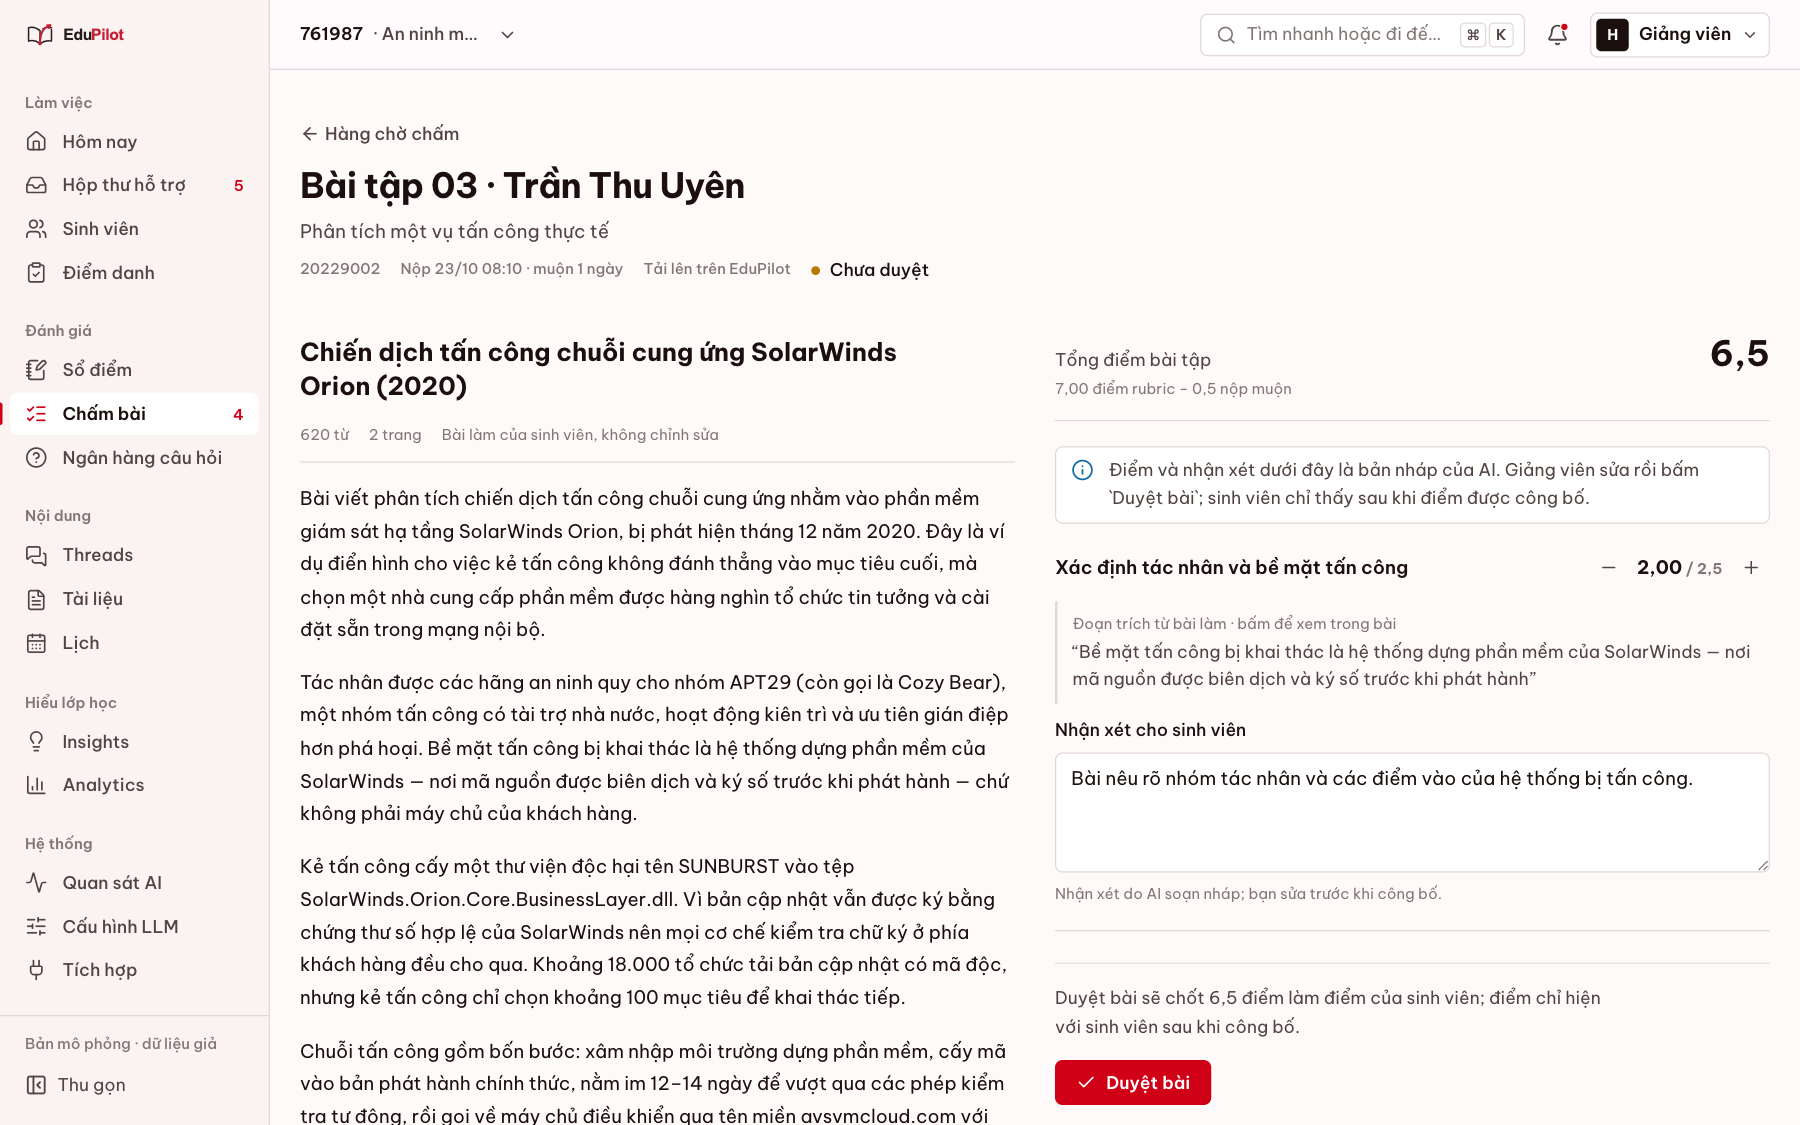
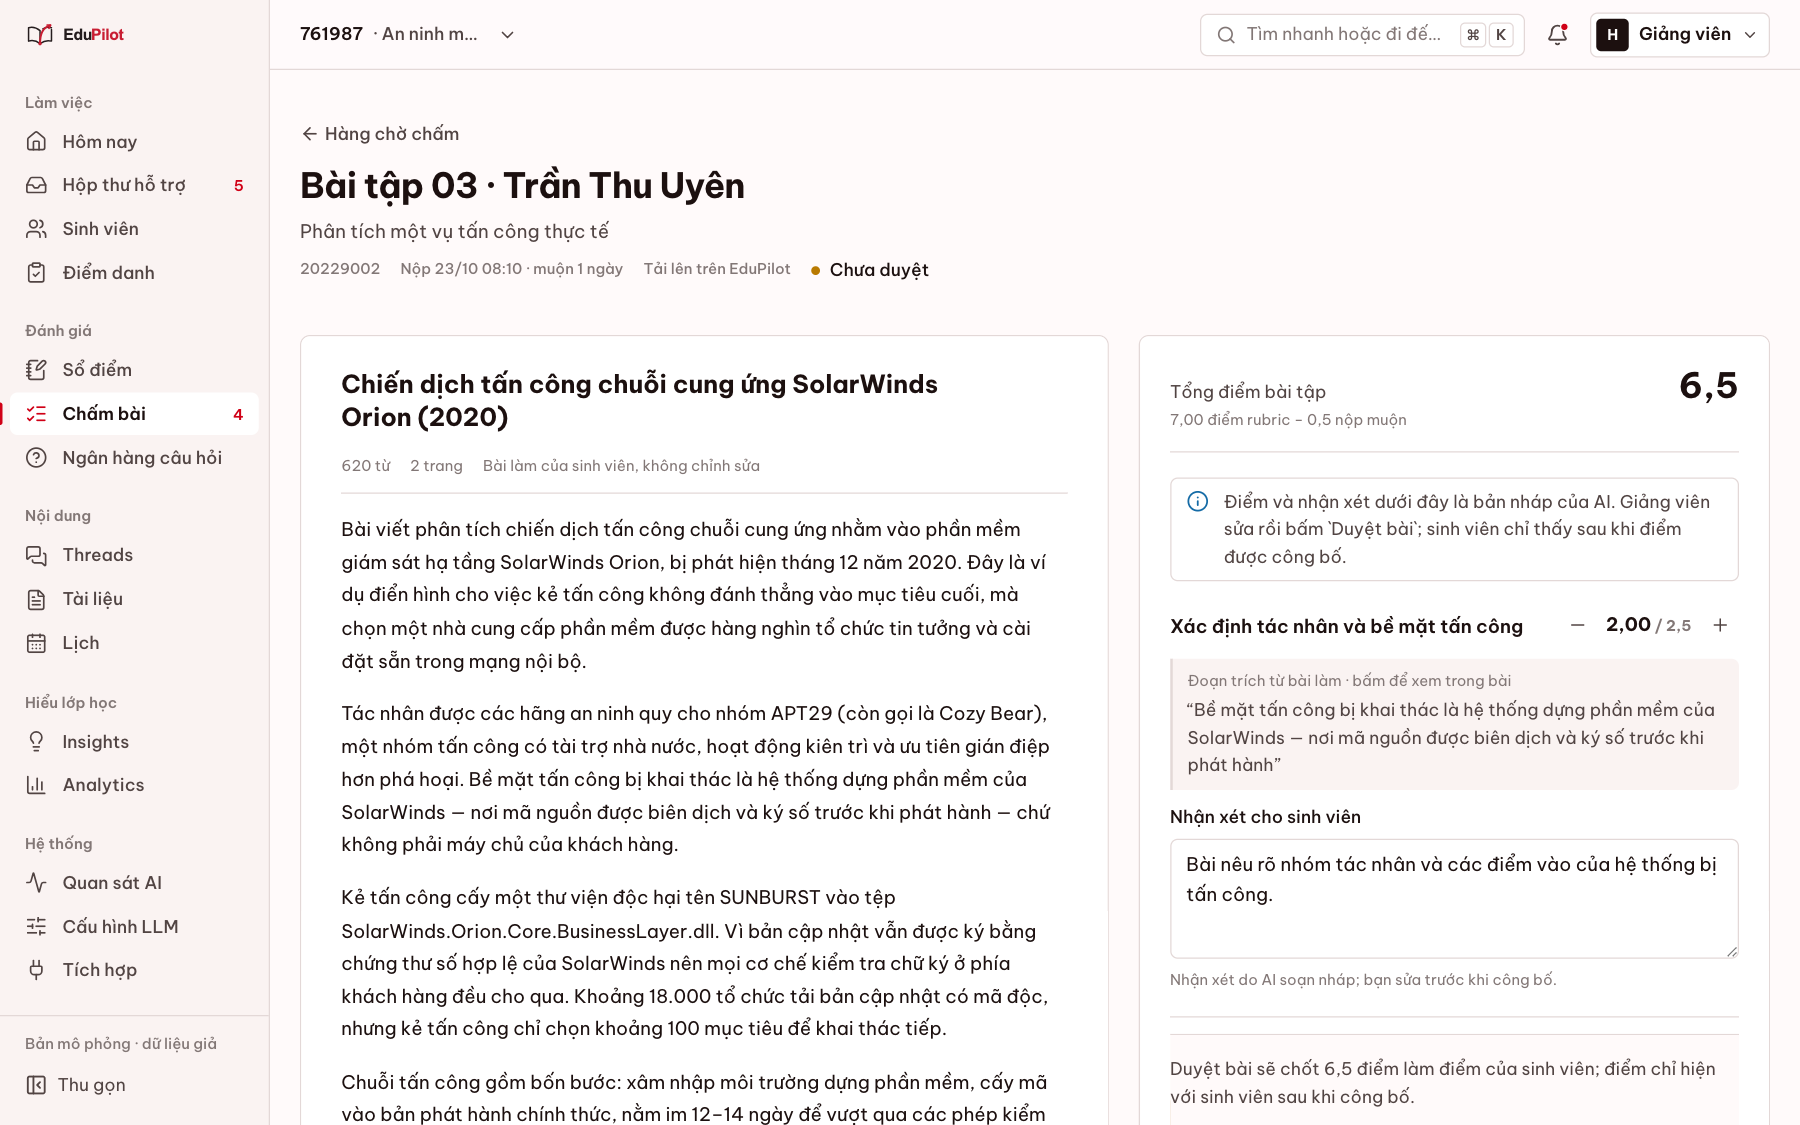
US-PROTO-03: phân định 2 panel độc lập cho màn chấm bài /grading/[submissionId] (spec v4)

Changed region(s): [[0.1556, 0.28, 0.9644, 1.0], [0.9333, 0.3111, 0.9956, 0.3733]]

diff --git a/frontend/src/features/grading/SubmissionReview.module.css b/frontend/src/features/grading/SubmissionReview.module.css
@@ -1,22 +1,142 @@
-.doc { display: grid; gap: var(--ep-space-4); }
-.docMeta { display: flex; flex-wrap: wrap; gap: var(--ep-space-2) var(--ep-space-4); font-size: var(--ep-text-meta); color: var(--ep-ink-3); padding-bottom: var(--ep-space-3); border-bottom: 1px solid var(--ep-rule); }
-.docTitle { font-size: var(--ep-text-section); font-weight: 650; line-height: 1.35; }
-.para { margin: 0; line-height: 1.75; color: var(--ep-ink); scroll-margin-top: calc(var(--ep-topbar) + var(--ep-space-8)); }
-.para[data-active="true"] { background: var(--ep-red-soft); border-radius: var(--ep-radius-sm); box-decoration-break: clone; padding: var(--ep-space-2) var(--ep-space-3); margin: calc(-1 * var(--ep-space-2)) calc(-1 * var(--ep-space-3)); }
-.pageMark { margin-top: var(--ep-space-4); padding-top: var(--ep-space-2); border-top: 1px dashed var(--ep-rule); font-size: var(--ep-text-meta); color: var(--ep-ink-3); }
+.reviewGrid {
+  display: grid;
+  grid-template-columns: 55% minmax(0, 45%);
+  gap: var(--ep-space-6);
+  align-items: start;
+}
 
-.panel { display: grid; gap: var(--ep-space-5); }
-.total { display: flex; align-items: baseline; justify-content: space-between; gap: var(--ep-space-4); padding-bottom: var(--ep-space-4); border-bottom: 1px solid var(--ep-rule); }
-.totalValue { font-size: 1.75rem; font-weight: 680; font-variant-numeric: tabular-nums; line-height: 1.1; }
-.totalLabel { font-size: var(--ep-text-label); color: var(--ep-ink-2); }
-.totalCalc { display: block; font-size: var(--ep-text-meta); color: var(--ep-ink-3); margin-top: 2px; }
+.doc {
+  display: grid;
+  gap: var(--ep-space-4);
+  background: var(--ep-surface);
+  border: 1px solid var(--ep-rule);
+  border-radius: var(--ep-radius-md);
+  padding: var(--ep-space-6) var(--ep-space-8);
+  max-height: calc(100vh - var(--ep-topbar) - 130px);
+  overflow-y: auto;
+}
 
-.crit { display: grid; gap: var(--ep-space-3); padding-bottom: var(--ep-space-5); border-bottom: 1px solid var(--ep-rule); }
-.critHead { display: flex; align-items: center; justify-content: space-between; gap: var(--ep-space-3); }
-.critName { font-weight: 600; line-height: 1.4; }
-.stepper { display: inline-flex; align-items: center; gap: var(--ep-space-2); flex: none; }
-.stepValue { min-width: 68px; text-align: center; font-variant-numeric: tabular-nums; font-weight: 650; }
-.stepMax { font-size: var(--ep-text-meta); color: var(--ep-ink-3); }
+.docMeta {
+  display: flex;
+  flex-wrap: wrap;
+  gap: var(--ep-space-2) var(--ep-space-4);
+  font-size: var(--ep-text-meta);
+  color: var(--ep-ink-3);
+  padding-bottom: var(--ep-space-3);
+  border-bottom: 1px solid var(--ep-rule);
+}
+
+.docTitle {
+  font-size: var(--ep-text-section);
+  font-weight: 650;
+  line-height: 1.35;
+  margin: 0;
+}
+
+.para {
+  margin: 0;
+  line-height: 1.75;
+  color: var(--ep-ink);
+  scroll-margin-top: calc(var(--ep-topbar) + var(--ep-space-8));
+}
+
+.para[data-active="true"] {
+  background: var(--ep-red-soft);
+  border-radius: var(--ep-radius-sm);
+  box-decoration-break: clone;
+  padding: var(--ep-space-2) var(--ep-space-3);
+  margin: calc(-1 * var(--ep-space-2)) calc(-1 * var(--ep-space-3));
+}
+
+.pageMark {
+  margin-top: var(--ep-space-4);
+  padding-top: var(--ep-space-2);
+  border-top: 1px dashed var(--ep-rule);
+  font-size: var(--ep-text-meta);
+  color: var(--ep-ink-3);
+}
+
+.panel {
+  display: grid;
+  gap: var(--ep-space-5);
+  background: var(--ep-surface);
+  border: 1px solid var(--ep-rule);
+  border-radius: var(--ep-radius-md);
+  padding: var(--ep-space-6);
+  max-height: calc(100vh - var(--ep-topbar) - 130px);
+  overflow-y: auto;
+}
+
+.total {
+  display: flex;
+  align-items: baseline;
+  justify-content: space-between;
+  gap: var(--ep-space-4);
+  padding-bottom: var(--ep-space-4);
+  border-bottom: 1px solid var(--ep-rule);
+}
+
+.totalValue {
+  font-size: 1.75rem;
+  font-weight: 680;
+  font-variant-numeric: tabular-nums;
+  line-height: 1.1;
+}
+
+.totalLabel {
+  font-size: var(--ep-text-label);
+  color: var(--ep-ink-2);
+}
+
+.totalCalc {
+  display: block;
+  font-size: var(--ep-text-meta);
+  color: var(--ep-ink-3);
+  margin-top: 2px;
+}
+
+.crit {
+  display: grid;
+  gap: var(--ep-space-3);
+  padding-bottom: var(--ep-space-5);
+  border-bottom: 1px solid var(--ep-rule);
+}
+.crit:last-of-type {
+  border-bottom: 0;
+  padding-bottom: 0;
+}
+
+.critHead {
+  display: flex;
+  align-items: center;
+  justify-content: space-between;
+  gap: var(--ep-space-3);
+}
+
+.critName {
+  font-weight: 600;
+  line-height: 1.4;
+}
+
+.stepper {
+  display: inline-flex;
+  align-items: center;
+  gap: var(--ep-space-2);
+  flex: none;
+}
+
+.stepValue {
+  min-width: 68px;
+  text-align: center;
+  font-variant-numeric: tabular-nums;
+  font-weight: 650;
+}
+
+.stepMax {
+  font-size: var(--ep-text-meta);
+  color: var(--ep-ink-3);
+}
+
 .evidence {
   display: block;
   width: 100%;
@@ -24,16 +144,60 @@
   padding: var(--ep-space-2) var(--ep-space-3);
   border: 0;
   border-left: 2px solid var(--ep-rule);
-  background: transparent;
+  background: var(--ep-surface-subtle);
+  border-radius: 0 var(--ep-radius-sm) var(--ep-radius-sm) 0;
   color: var(--ep-ink-2);
   font: inherit;
   font-size: var(--ep-text-label);
   line-height: 1.6;
   cursor: pointer;
+  transition: border-color var(--ep-fast) var(--ep-ease-standard), background-color var(--ep-fast) var(--ep-ease-standard);
 }
-.evidence:hover { border-left-color: var(--ep-red); color: var(--ep-ink); background: var(--ep-surface-subtle); }
-.evidenceTag { display: block; font-size: var(--ep-text-meta); color: var(--ep-ink-3); margin-bottom: 2px; }
-.aiTag { font-size: var(--ep-text-meta); color: var(--ep-ink-3); }
 
-.foot { position: sticky; bottom: 0; display: flex; align-items: center; justify-content: space-between; gap: var(--ep-space-4); flex-wrap: wrap; padding: var(--ep-space-4) 0; background: var(--ep-paper); border-top: 1px solid var(--ep-rule); }
-.footText { font-size: var(--ep-text-label); color: var(--ep-ink-2); max-width: 48ch; }
+.evidence:hover {
+  border-left-color: var(--ep-red);
+  color: var(--ep-ink);
+  background: var(--ep-surface);
+}
+
+.evidenceTag {
+  display: block;
+  font-size: var(--ep-text-meta);
+  color: var(--ep-ink-3);
+  margin-bottom: 2px;
+}
+
+.aiTag {
+  font-size: var(--ep-text-meta);
+  color: var(--ep-ink-3);
+}
+
+.foot {
+  position: sticky;
+  bottom: 0;
+  display: flex;
+  align-items: center;
+  justify-content: space-between;
+  gap: var(--ep-space-4);
+  flex-wrap: wrap;
+  padding: var(--ep-space-4) 0;
+  background: var(--ep-paper);
+  border-top: 1px solid var(--ep-rule);
+  margin-top: var(--ep-space-6);
+}
+
+.footText {
+  font-size: var(--ep-text-label);
+  color: var(--ep-ink-2);
+  max-width: 48ch;
+}
+
+@media (max-width: 1099px) {
+  .reviewGrid {
+    grid-template-columns: 1fr;
+    gap: var(--ep-space-6);
+  }
+  .doc, .panel {
+    max-height: none;
+  }
+}

diff --git a/frontend/src/features/grading/SubmissionReview.tsx b/frontend/src/features/grading/SubmissionReview.tsx
@@ -14,7 +14,7 @@ import {
   PageHeader,
   PageState,
   Skeleton,
-  Split,
+  
   StatusText,
   Textarea,
 } from "@/shared/ui";
@@ -151,11 +151,9 @@ export function SubmissionReview({ submissionId }: { submissionId: string }) {
         }
         error={{ problem: "Không tải được bài nộp.", recovery: "Điểm và nhận xét bạn đã sửa vẫn được giữ. Thử lại sau ít phút." }}
       >
-        <Split
-          ratio="half"
-          main={
+        <div className={s.reviewGrid}>
             <div className={s.doc}>
-              <p className={s.docTitle}>{title}</p>
+            <p className={s.docTitle}>{title}</p>
               <div className={s.docMeta}>
                 <span>{paras.reduce((a, p) => a + p.text.split(" ").length, 0)} từ</span>
                 <span>{isB ? "2 trang" : "1 trang"}</span>
@@ -170,10 +168,8 @@ export function SubmissionReview({ submissionId }: { submissionId: string }) {
                 </div>
               ))}
             </div>
-          }
-          aside={
-            <div className={s.panel}>
-              <div className={s.total}>
+          <div className={s.panel}>
+            <div className={s.total}>
                 <span className={s.totalLabel}>
                   Tổng điểm bài tập
                   <span className={s.totalCalc}>
@@ -243,8 +239,7 @@ export function SubmissionReview({ submissionId }: { submissionId: string }) {
                 </Button>
               </div>
             </div>
-          }
-        />
+        </div>
       </PageState>
     </Page>
   );

diff --git a/docs/sprints/1.5/handoff/dev-US-PROTO-03.md b/docs/sprints/1.5/handoff/dev-US-PROTO-03.md
@@ -34,3 +34,6 @@ F=http://localhost:3000 bash docs/sprints/1.5/qc/scripts/proto-curl.sh tc_03_01 
 
 ## Nợ / chưa làm / cần hỏi
 - Xuất XLSX trong Sổ điểm tạo file blob tải về mô phỏng bảng điểm.
+
+## Cập nhật theo spec v4 (Proposals #16)
+- Phân định rõ 2 panel độc lập ở `/grading/[submissionId]` (FR-X11, 03-AC1): Panel xem bài nộp sinh viên bên trái (55%) và Panel rubric / điểm số bên phải (45%), đều có viền `1px solid var(--ep-rule)`, nền `var(--ep-surface)`, bo góc `var(--ep-radius-md)`, padding rõ ràng và cuộn độc lập.
